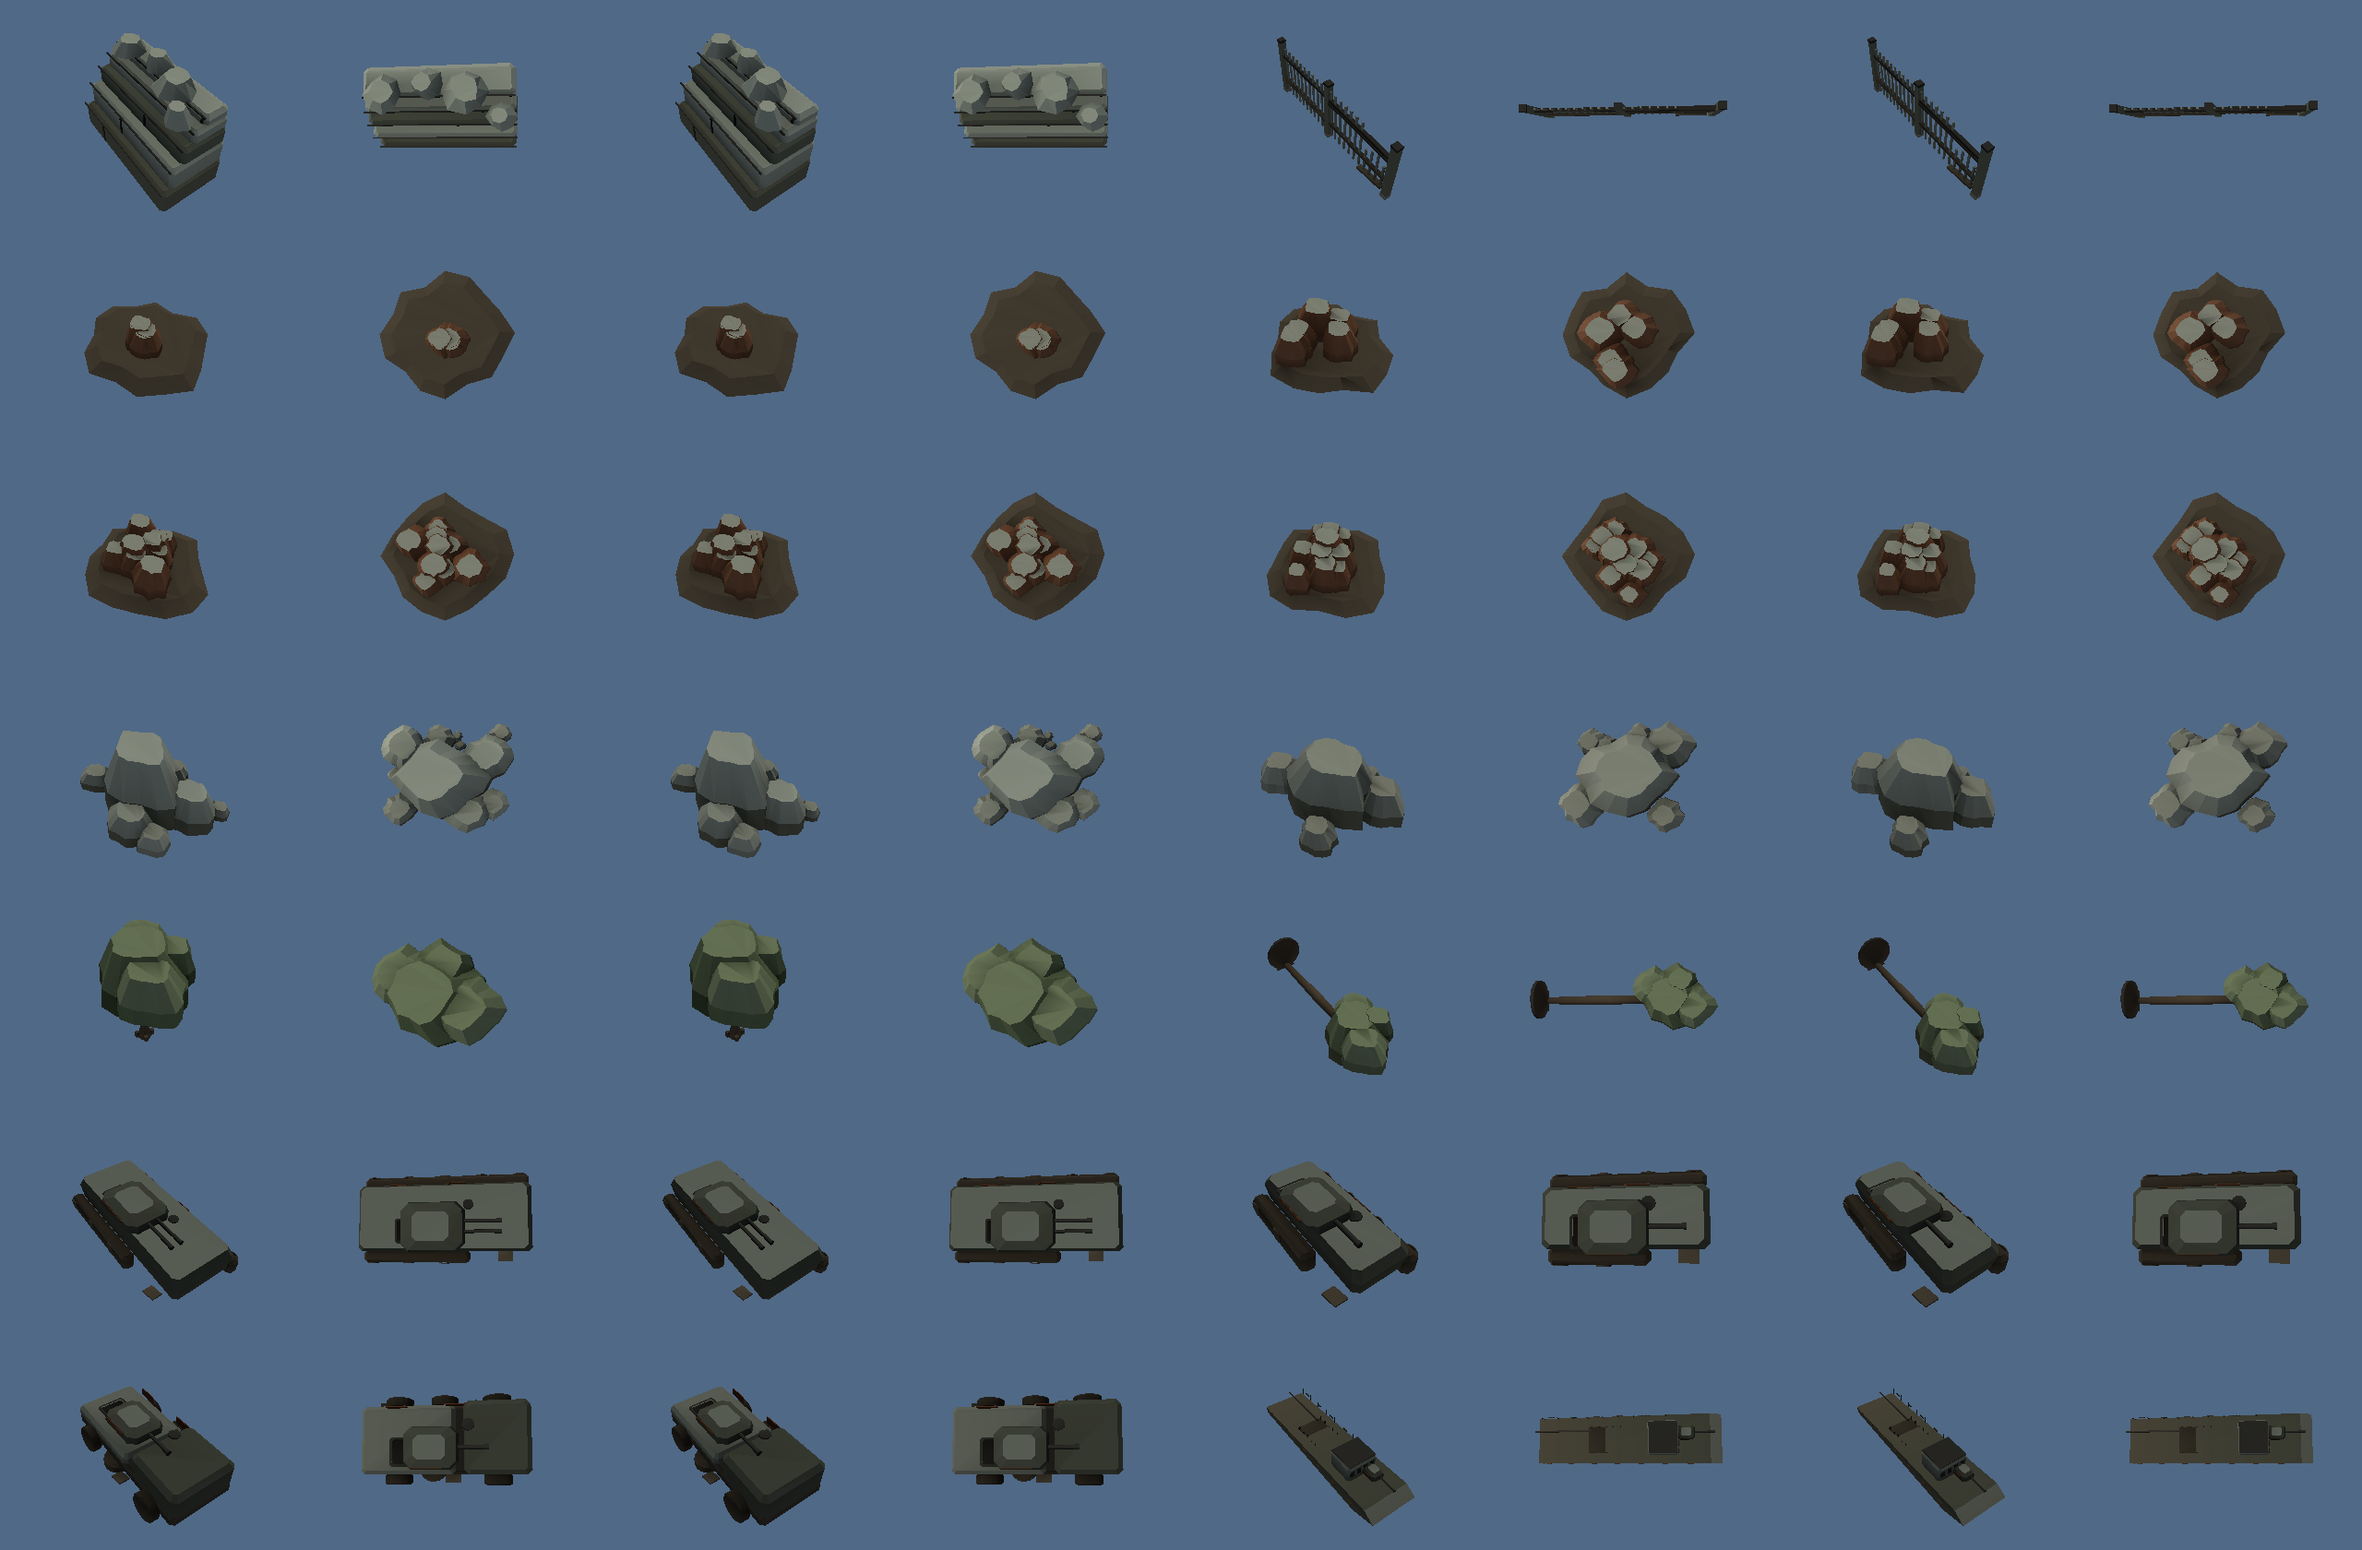
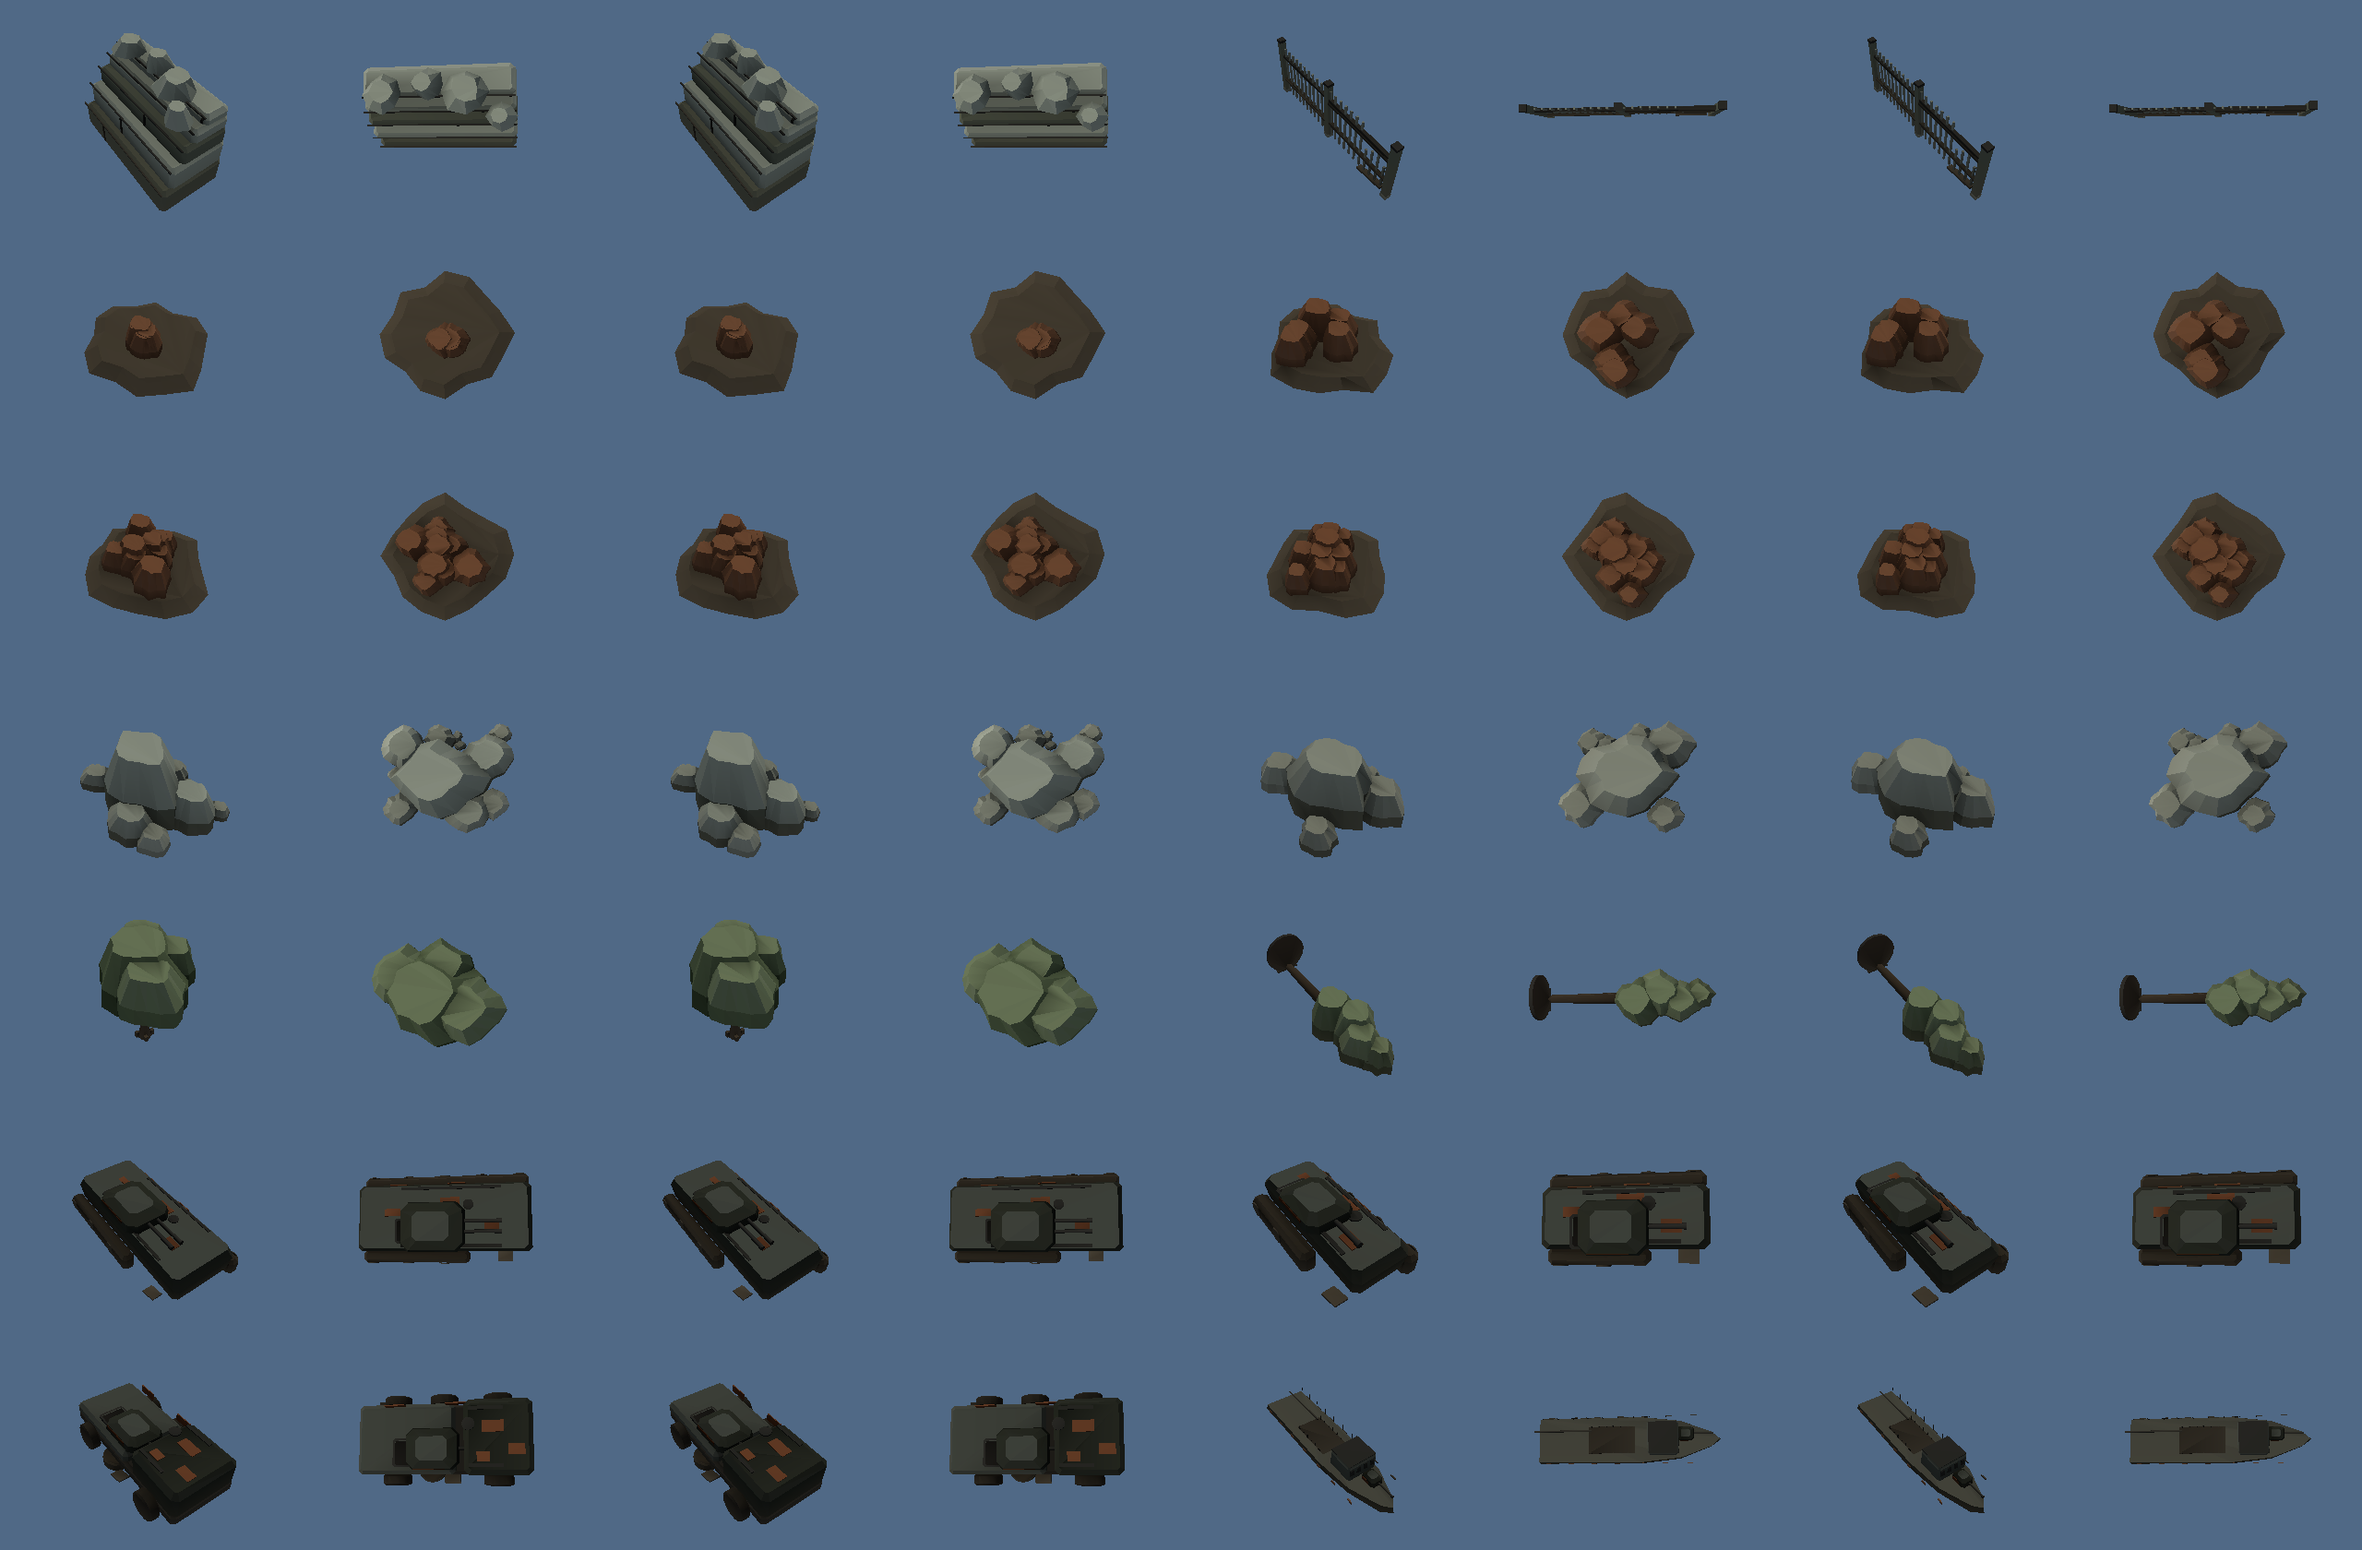
WP11.6d: vessel rails (LOD2 share), pins for multi-line entries, refreshed screenshots
Claude-Session: https://claude.ai/code/session_01E9comaZi2PE6iTmoHWTfFn

diff --git a/tools/sf_model_gen/tests/generator.rs b/tools/sf_model_gen/tests/generator.rs
@@ -536,27 +536,11 @@ const PINNED_DECOR: [(&str, usize, u64); 14] = [
     ("neutral_rock_large.glb", 189340, 0x40f97822c06afd32),
     ("neutral_rock_small.glb", 118188, 0x80732670133e829c),
     ("neutral_tree_broadleaf.glb", 82252, 0xcac08d62e8a80cc7),
-    (
-        "neutral_tree_broadleaf_fallen.glb",
-        84172,
-        0xbcd02ed80df73d79,
-    ),
-    (
-        "neutral_wreck_heavy_vehicle.glb",
-        156596,
-        0xaded55d870736944,
-    ),
-    (
-        "neutral_wreck_light_vehicle.glb",
-        133152,
-        0xf93d7fcdb4e2be04,
-    ),
-    (
-        "neutral_wreck_medium_vehicle.glb",
-        209752,
-        0xb40137b663d348d3,
-    ),
-    ("neutral_wreck_vessel.glb", 134040, 0xaba3b05c3074a07a),
+    ("neutral_tree_broadleaf_fallen.glb", 85312, 0xe9d55b946c4d58f9),
+    ("neutral_wreck_heavy_vehicle.glb", 166376, 0xd405650e02d6a7de),
+    ("neutral_wreck_light_vehicle.glb", 142936, 0xcc4dee4f6149cdd9),
+    ("neutral_wreck_medium_vehicle.glb", 219544, 0x4bbb5dcfa38f1d06),
+    ("neutral_wreck_vessel.glb", 146372, 0x0cf13dd80a6c0b04),
 ];
 
 fn fnv1a(bytes: &[u8]) -> u64 {

diff --git a/tools/sf_model_gen/src/decor.rs b/tools/sf_model_gen/src/decor.rs
@@ -944,6 +944,15 @@ pub fn wreck_vessel() -> Model {
                         closed_box([x, deck, -2130], [x + 50, deck + 700, -2080], METAL)
                             .toned(BURNT_STEEL),
                     );
+                    // The starboard rail is bent: its posts stand lower.
+                    hull.add(
+                        closed_box(
+                            [x, deck, 2080],
+                            [x + 50, deck + 700 - (k % 3) * 160, 2130],
+                            METAL,
+                        )
+                        .toned(BURNT_STEEL),
+                    );
                 }
             }
         }
